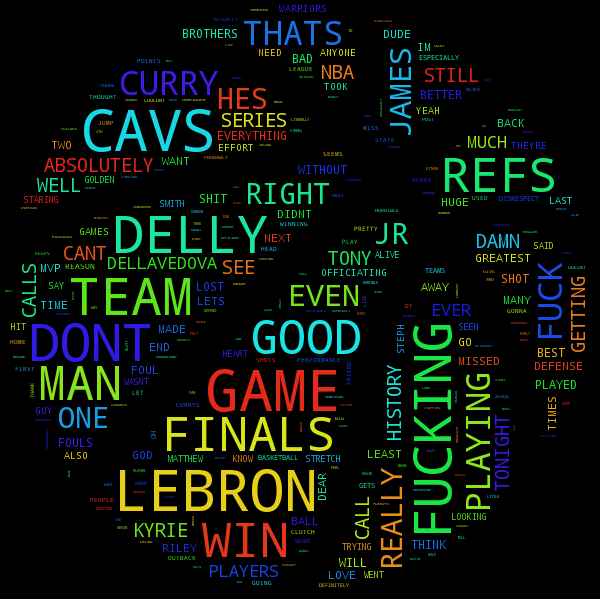
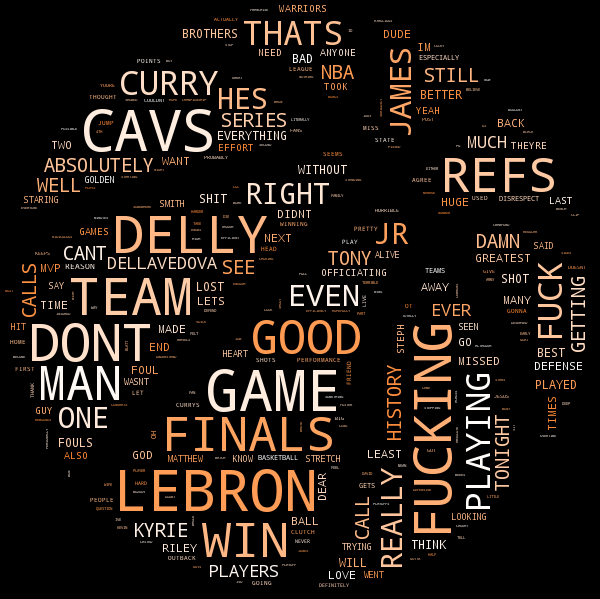
Add orange color to basketball images 	modified:   build_world_clouds.py 	modified:   images/basketball_game_1.png 	modified:   images/basketball_game_2.png 	modified:   images/basketball_game_3.png 	modified:   images/basketball_game_4.png 	modified:   images/basketball_game_5.png 	modified:   imag

diff --git a/build_world_clouds.py b/build_world_clouds.py
@@ -1,5 +1,7 @@
 import os
 import re
+import random
+
 from scipy.misc import imread
 import matplotlib.pyplot as plt
 
@@ -26,6 +28,10 @@ for path in paths:
 # http://www.clker.com/cliparts/Q/I/V/k/y/2/black-basketball-hi.png
 mask = imread(os.path.join(images, "basketball-silhouette.png"))
 
+def orange_color_func(word, font_size, position, orientation, random_state=None,
+                      **kwargs):
+    return "hsl(25, 100%%, %d%%)" % random.randint(60, 100)
+
 for path in paths:
     png_filename = re.sub(r'\.txt$', '.png', path)
     png_filename = re.sub(r'game', 'basketball_game', png_filename)
@@ -33,4 +39,5 @@ for path in paths:
     # generate word cloud
     wc = WordCloud(max_words=1000, mask=mask, margin=10,
                random_state=1).generate(text)
+    wc.recolor(color_func=orange_color_func, random_state=3)
     wc.to_file(os.path.join(images, png_filename))
